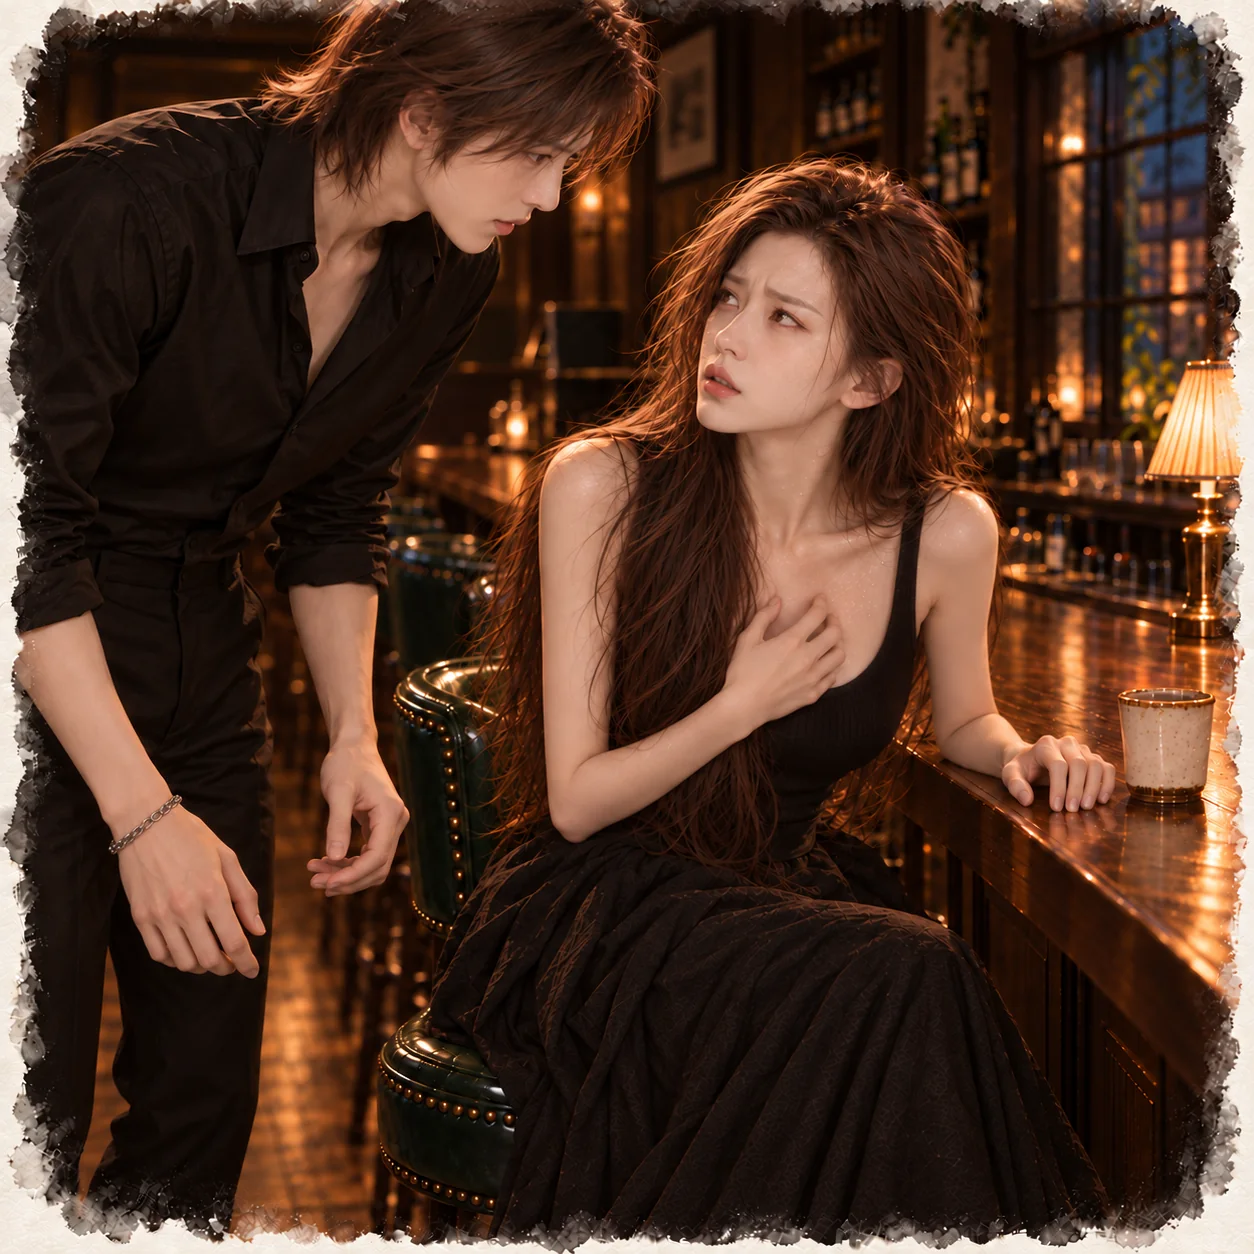
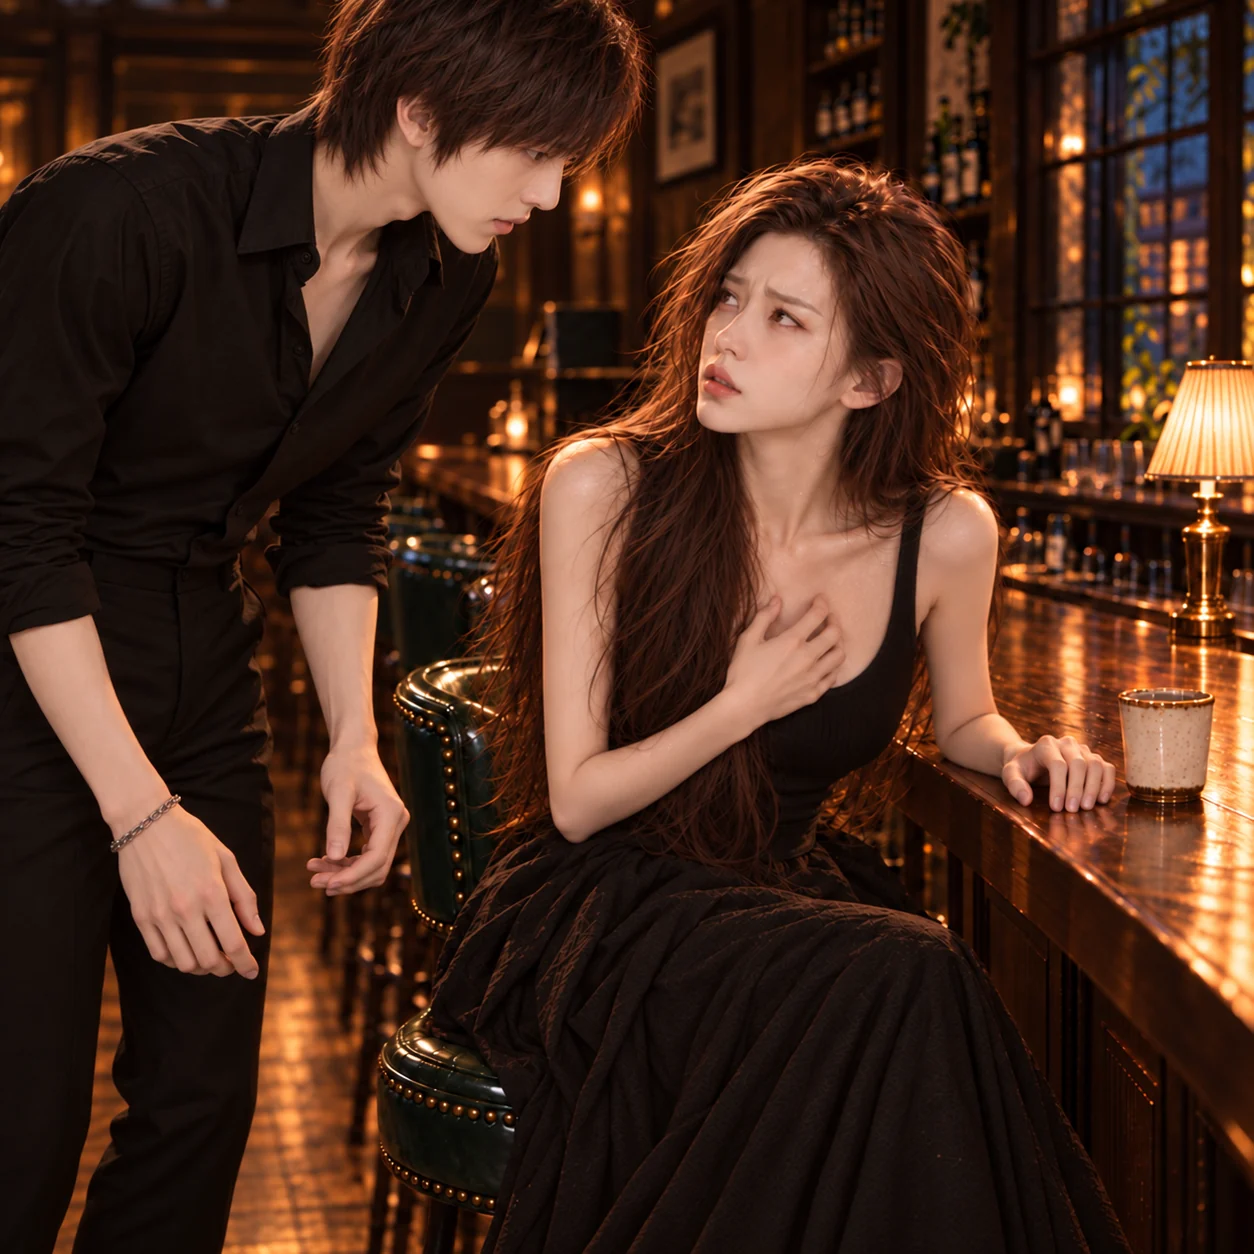
更換《沒有招牌的酒吧》第一部第六章林棠配圖
Claude-Session: https://claude.ai/code/session_01GBWYe2ZCjBEsB5sU4wpFsc

diff --git a/novels/no-signboard-bar/chapter-06.html b/novels/no-signboard-bar/chapter-06.html
@@ -42,7 +42,7 @@
 <p>「還沒。」</p>
 </section>
 <section class="pov pov-lin" data-name="林棠">
-<div class="pov-opening"><h2 class="pov-title" id="pov-2"><span>敘事視角</span>林棠</h2><a class="pov-art" href="../../assets/novels/no-signboard-bar/chapter-06-lin-tang.webp?v=20261013" target="_blank" rel="noopener" aria-label="開啟林棠插圖大圖"><img src="../../assets/novels/no-signboard-bar/chapter-06-lin-tang.webp?v=20261013" alt="林棠坐在吧檯邊，一手按著胸口，冒著冷汗驚慌地抬頭；江澈從吧檯後繞出來，彎身站在她旁邊。" width="1254" height="1254" loading="lazy" decoding="async"><span class="pov-cap">我真的不知道。</span></a><div class="pov-intro"><p>我不想被問這個。</p>
+<div class="pov-opening"><h2 class="pov-title" id="pov-2"><span>敘事視角</span>林棠</h2><a class="pov-art" href="../../assets/novels/no-signboard-bar/chapter-06-lin-tang.webp?v=20261014" target="_blank" rel="noopener" aria-label="開啟林棠插圖大圖"><img src="../../assets/novels/no-signboard-bar/chapter-06-lin-tang.webp?v=20261014" class="soft-edge" alt="林棠坐在吧檯邊，一手按著胸口，冒著冷汗驚慌地抬頭；江澈從吧檯後繞出來，彎身站在她旁邊。" width="1254" height="1254" loading="lazy" decoding="async"><span class="pov-cap">我真的不知道。</span></a><div class="pov-intro"><p>我不想被問這個。</p>
 <p>我從片場直接過來，拍了十二個小時，一口東西都沒吃，只有早上那杯咖啡，今天連蘋果都沒啃。胃從下午就開始燒，我在車上又吞了一顆藥，壓不下去。</p>
 <p>今天的戲服換了，但束腰一樣綁得很緊，痕跡還在，一圈一圈勒在肋骨下面。</p></div></div>
 <p>我坐在溫寧旁邊的位置，江澈把我的陶杯推過來。我捧著，還沒喝。</p>
